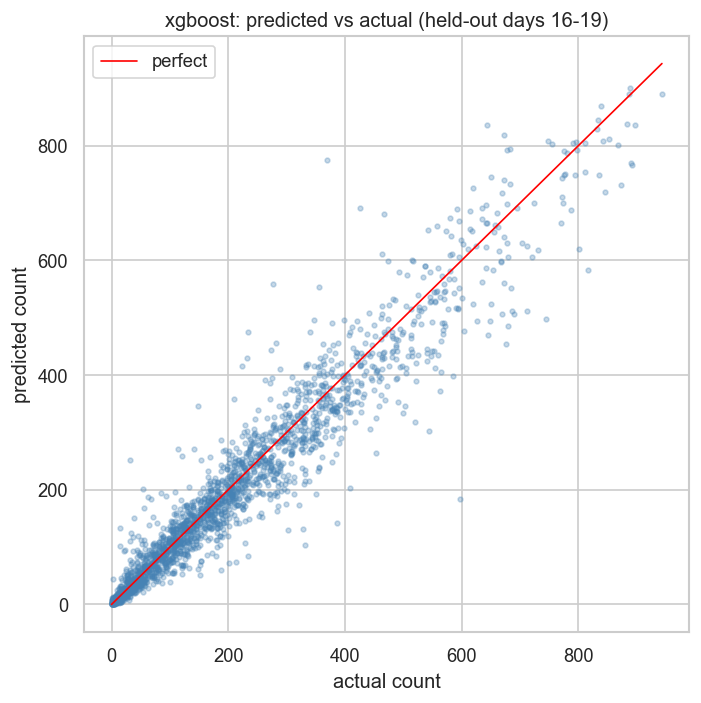
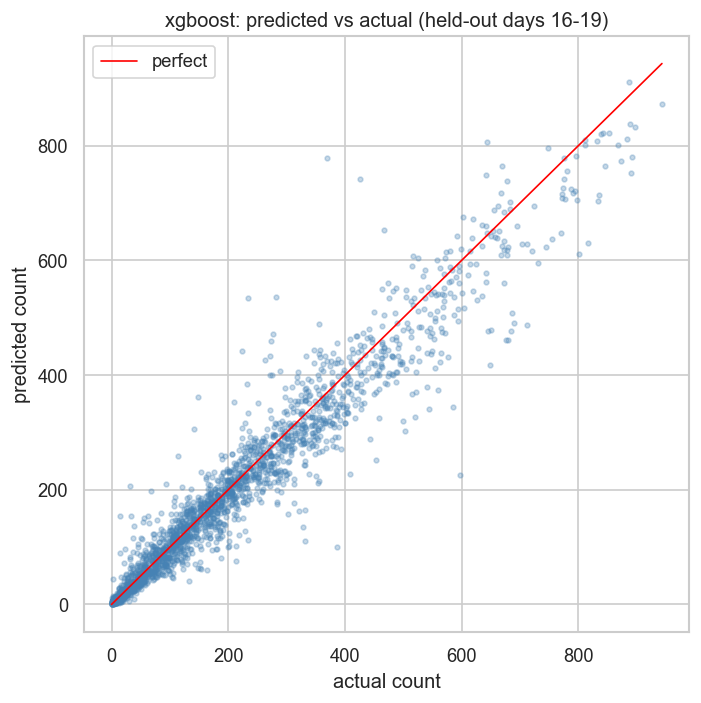
fix(report): use models.yaml params in notebook 05 best-model error analysis
The best-model refit in the results notebook called
get_model(best_name, CFG) without params, so XGBoost was trained with
factory defaults while the leaderboard table (from metrics.json) used
the config/models.yaml hyperparameters. The figures presented as "best
model error analysis" (14-16) therefore described a slightly different
model than the table (notebook holdout RMSLE 0.325 vs table 0.309).

Fix: the builder now loads config/models.yaml via load_models_config and
passes MODEL_PARAMS.get(best_name, {}) into get_model, matching the
training pipeline. Refit holdout report now reproduces the table exactly
(RMSLE 0.309, RMSE 46.459, MAE 27.615, R2 0.936). Notebook 05
re-executed; figures 14-16 regenerated. reports/RESULTS.md needed no
change - it cites the metrics.json table values and the figures
qualitatively.

Verification: 70/70 pytest pass; generate_submission.py --model xgboost
writes a valid 6493-row datetime,count artifact; worktree clean apart
from this change.

diff --git a/scripts/_build_results_notebook.py b/scripts/_build_results_notebook.py
@@ -30,7 +30,7 @@ import numpy as np
 import pandas as pd
 import seaborn as sns
 
-from bike_sharing.config import load_config
+from bike_sharing.config import load_config, load_models_config
 from bike_sharing.data import load_raw_train
 from bike_sharing.features import build_features
 from bike_sharing.models import get_model
@@ -45,6 +45,7 @@ while not (PROJECT_ROOT / "config" / "config.yaml").exists():
     PROJECT_ROOT = PROJECT_ROOT.parent
 
 CFG = load_config(PROJECT_ROOT / "config" / "config.yaml")
+MODEL_PARAMS = load_models_config(PROJECT_ROOT / "config" / "models.yaml")
 REPORTS_DIR = Path(CFG["paths"]["reports_dir"])
 FIG_DIR = REPORTS_DIR / "figures"
 FIG_DIR.mkdir(parents=True, exist_ok=True)
@@ -86,7 +87,12 @@ dt = train[CFG["datetime_col"]]
 X = train.drop(columns=["count", CFG["datetime_col"]])
 
 tr_idx, ho_idx = day_of_month_holdout_split(dt)
-best = get_model(best_name, CFG).fit(X.iloc[tr_idx], y[tr_idx])
+# Use the same config/models.yaml hyperparameters as the metrics table,
+# so this refit reproduces the leaderboard's holdout score rather than
+# training the factory defaults.
+best = get_model(best_name, CFG, MODEL_PARAMS.get(best_name, {})).fit(
+    X.iloc[tr_idx], y[tr_idx]
+)
 y_true = y[ho_idx]
 y_pred = best.predict(X.iloc[ho_idx])
 